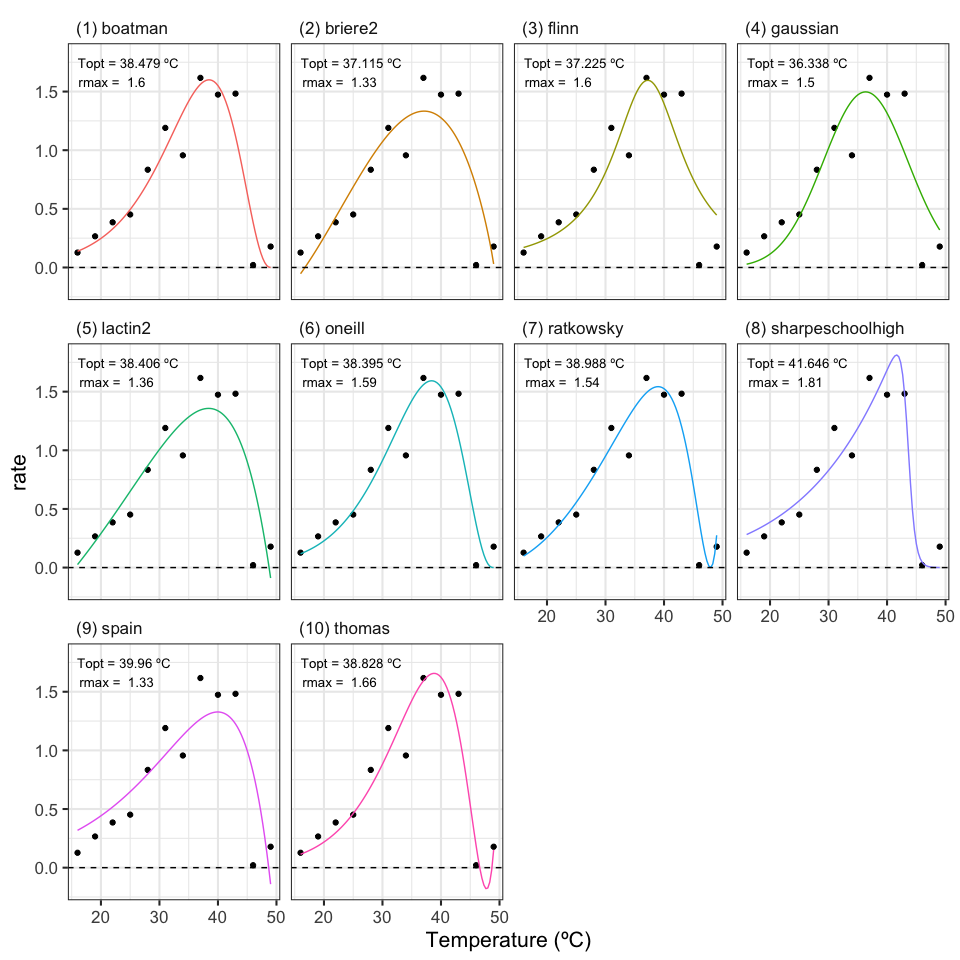
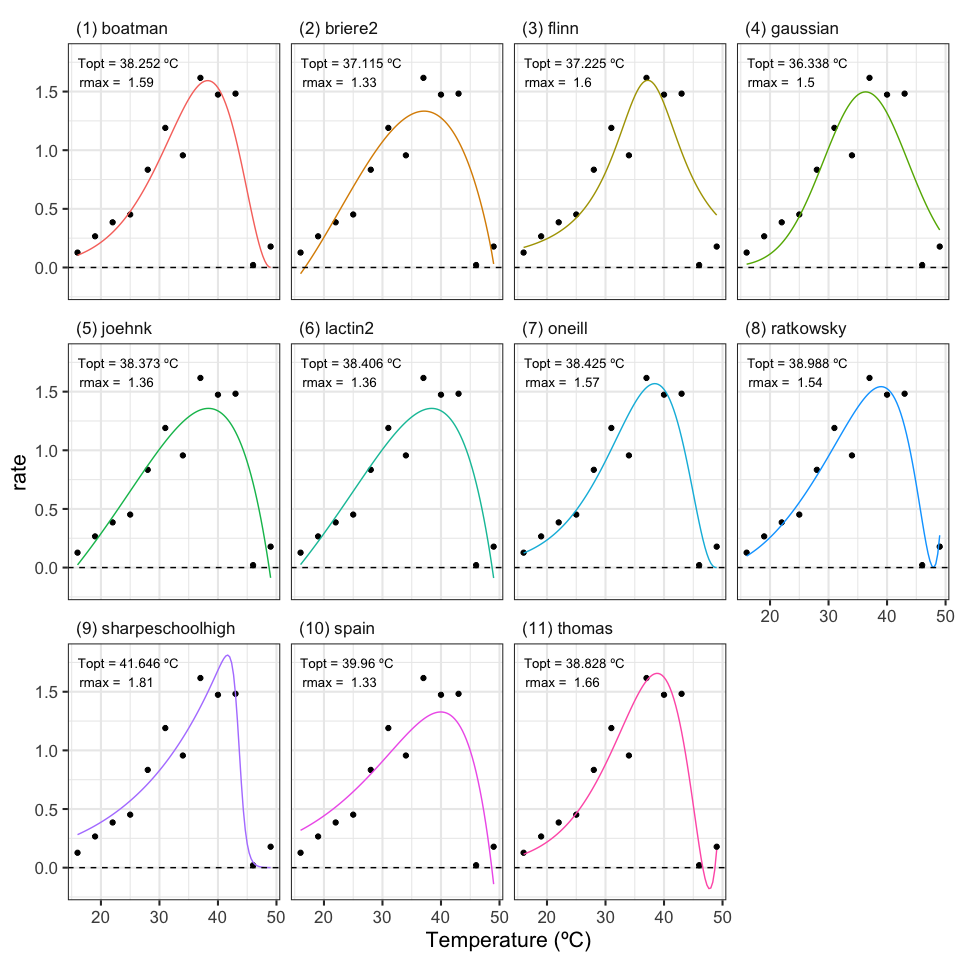
Define joehnk_2008

diff --git a/README.md b/README.md
@@ -135,10 +135,17 @@ d_models <- group_by(d_1, curve_id, growth.temp, process, flux) %>%
                                            supp_errors = 'Y')),
             oneill = map(data, ~nls_multstart(rate ~ oneill_1972(temp = temp, rmax, tmax, topt, a),
                                            data = .x,
-                                           iter = 5000,
+                                           iter = 500,
                                            start_lower = c(rmax = 1, tmax = 30, topt = 20, a = 1),
                                            start_upper = c(rmax = 2, tmax = 50, topt = 40, a = 2),
-                                           supp_errors = 'Y')))
+                                           supp_errors = 'Y')),
+            joehnk = map(data, ~nls_multstart(rate ~ joehnk_2008(temp = temp, rmax, topt, a, b, c),
+                                           data = .x,
+                                           iter = 500,
+                                           start_lower = c(rmax = 0, topt = 20, a = 0, b = 1, c = 1),
+                                           start_upper = c(rmax = 2, topt = 40, a = 30, b = 2, c = 2),
+                                           supp_errors = 'Y',
+                                           lower = c(rmax = 0, topt = 0, a = 0, b = 1, c = 1))))
 ```
 
 We can now make predictions of each model and plot them. In addition, we
